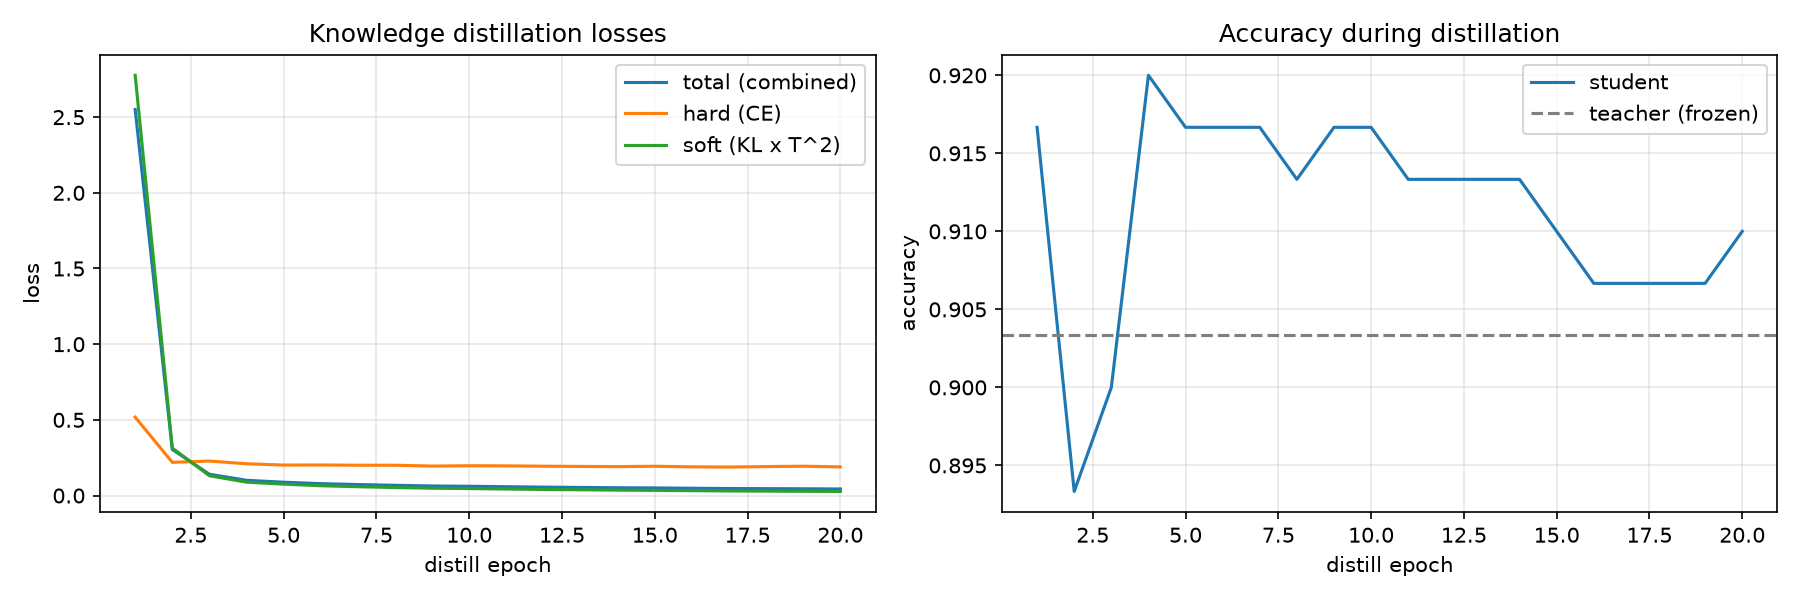
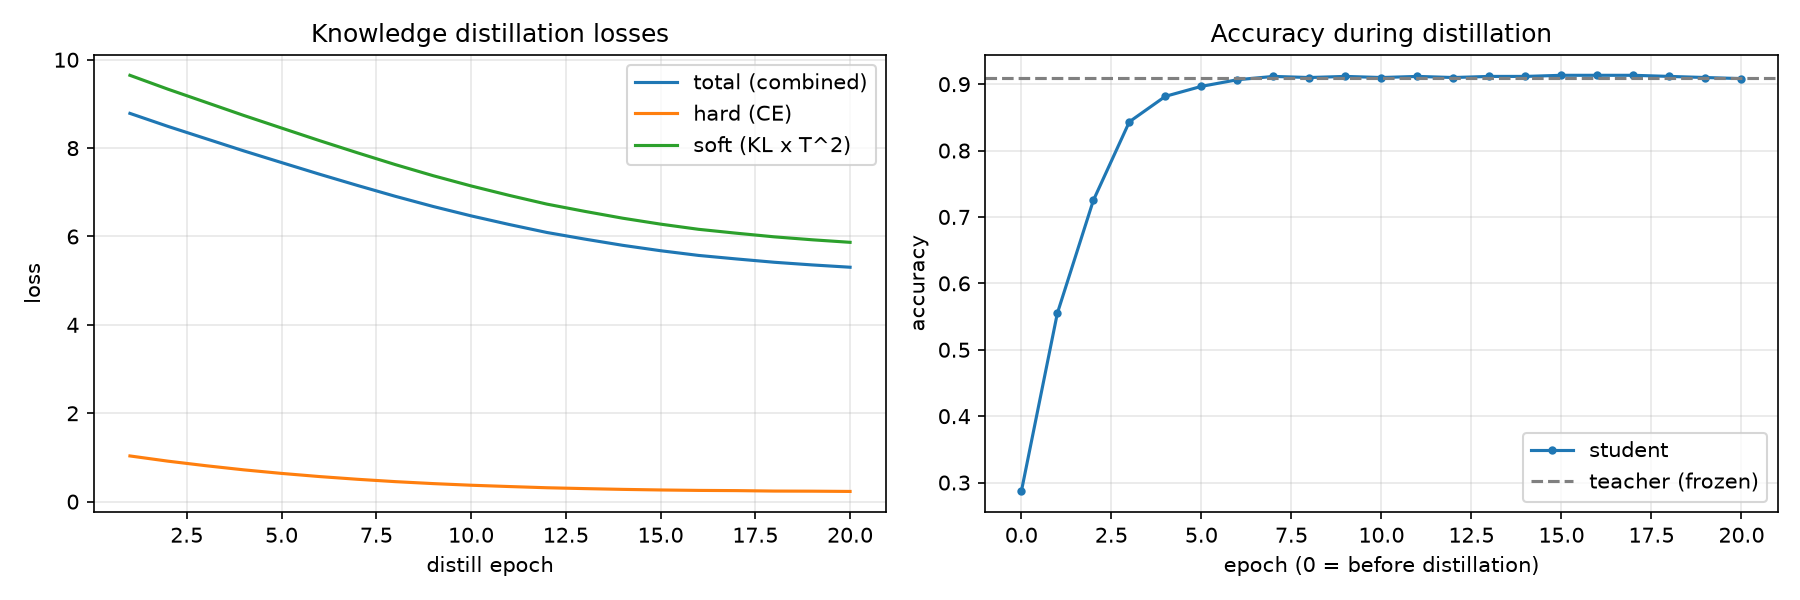
Align KD loss with Hinton et al. Sec. 2 equations
Soft loss is now cross-entropy with soft targets (Eq. 2) instead of
KLDivLoss, keeping T^2 scaling (Eqs. 3-4); Eq. (1)-(4) mapping is
annotated in train_knowledge_distillation. README documents the
method with the arXiv reference, and training curves are regenerated.

diff --git a/train_kd.py b/train_kd.py
@@ -9,17 +9,19 @@ Run:
     uv sync
     uv run python train_kd.py
 """
+
 import torch
 import torch.nn as nn
 import torch.nn.functional as F
 from torch.utils.data import DataLoader, TensorDataset, random_split
 
 import matplotlib
+
 matplotlib.use("Agg")
 import matplotlib.pyplot as plt
 
 SEED = 42
-N_SAMPLES = 1500
+N_SAMPLES = 3000
 NUM_CLASSES = 3
 BATCH_SIZE = 64
 TEACHER_EPOCHS = 30
@@ -27,19 +29,16 @@ DISTILL_EPOCHS = 20
 T = 3.0
 ALPHA = 0.1
 LR = 1e-2
+DISTILL_LR = 3e-4
 CHART_PATH = "kd_training_curve.png"
+DATA_CHART_PATH = "synthetic_data.png"
 
 DEVICE = torch.device("cuda")
 
 
-def require_cuda():
-    if not torch.cuda.is_available():
-        raise RuntimeError(
-            "A CUDA build of torch and an NVIDIA GPU are required."
-        )
-
-
-def train_knowledge_distillation(teacher, student, train_loader, optimizer, epoch, device, T=3.0, alpha=0.1):
+def train_knowledge_distillation(
+    teacher, student, train_loader, optimizer, epoch, device, T=3.0, alpha=0.1
+):
     """
     Args:
         teacher: Pre-trained teacher model (in eval mode)
@@ -54,14 +53,13 @@ def train_knowledge_distillation(teacher, student, train_loader, optimizer, epoc
     teacher.eval()
     student.train()
 
-    ce_loss_fn = nn.CrossEntropyLoss()
-    # KL Divergence is used for the soft target loss
-    kl_loss_fn = nn.KLDivLoss(reduction="batchmean")
-
     sum_total, sum_hard, sum_soft, n_batches = 0.0, 0.0, 0.0, 0
 
-    for batch_idx, (data, target) in enumerate(train_loader):
-        data, target = data.to(device, non_blocking=True), target.to(device, non_blocking=True)
+    for _, (data, target) in enumerate(train_loader):
+        data, target = (
+            data.to(device, non_blocking=True),
+            target.to(device, non_blocking=True),
+        )
         optimizer.zero_grad()
 
         # 1. Forward pass with both teacher and student
@@ -69,14 +67,25 @@ def train_knowledge_distillation(teacher, student, train_loader, optimizer, epoc
             teacher_logits = teacher(data)
         student_logits = student(data)
 
-        # 2. Compute the hard target loss (standard cross-entropy)
-        hard_loss = ce_loss_fn(student_logits, target)
+        # 2. Second objective: cross-entropy with the correct labels at T=1.
+        hard_loss = nn.CrossEntropyLoss()(student_logits, target)
 
-        # 3. Compute the soft target loss (scaled by T^2 as per Hinton et al.)
-        # log_softmax is applied to student, softmax to teacher
-        soft_targets = F.softmax(teacher_logits / T, dim=-1)
-        soft_prob = F.log_softmax(student_logits / T, dim=-1)
-        soft_loss = kl_loss_fn(soft_prob, soft_targets) * (T ** 2)
+        # 3. First objective: cross-entropy with the soft targets at T
+        # (Hinton et al., Sec. 2).
+        # Eq. (1): q_i = exp(z_i / T) / sum_j exp(z_j / T), applied with the
+        # same T to teacher logits v (-> p) and student logits z (-> q).
+        p = F.softmax(teacher_logits / T, dim=-1)
+        log_q = F.log_softmax(student_logits / T, dim=-1)
+
+        # Eq. (2): C = -sum_i p_i log q_i, with gradient
+        # dC/dz_i = (q_i - p_i) / T.
+        soft_ce = -(p * log_q).sum(dim=-1).mean()
+
+        # Eq. (3)-(4): at high T with zero-meaned logits,
+        # dC/dz_i ~= (z_i - v_i) / (N * T^2), i.e. soft-target gradients
+        # scale as 1/T^2, so the paper multiplies the soft objective by T^2
+        # to keep the hard/soft balance invariant to T.
+        soft_loss = soft_ce * (T**2)
 
         # 4. Combined loss
         loss = (alpha * hard_loss) + ((1.0 - alpha) * soft_loss)
@@ -102,10 +111,12 @@ def make_synthetic_data(n=N_SAMPLES, num_classes=NUM_CLASSES, seed=SEED):
     g = torch.Generator().manual_seed(seed)
     centers = torch.tensor([[-2.0, 0.0], [2.0, 0.0], [0.0, 2.5]])
     per_class = n // num_classes
+    remainder = n % num_classes
     xs, ys = [], []
     for c in range(num_classes):
-        xs.append(centers[c] + torch.randn(per_class, 2, generator=g))
-        ys.append(torch.full((per_class,), c, dtype=torch.long))
+        count = per_class + (1 if c < remainder else 0)
+        xs.append(centers[c] + torch.randn(count, 2, generator=g))
+        ys.append(torch.full((count,), c, dtype=torch.long))
     X = torch.cat(xs).float()
     y = torch.cat(ys)
     perm = torch.randperm(len(X), generator=g)
@@ -118,8 +129,10 @@ class TeacherNet(nn.Module):
     def __init__(self, num_classes=NUM_CLASSES):
         super().__init__()
         self.net = nn.Sequential(
-            nn.Linear(2, 128), nn.ReLU(),
-            nn.Linear(128, 128), nn.ReLU(),
+            nn.Linear(2, 128),
+            nn.ReLU(),
+            nn.Linear(128, 128),
+            nn.ReLU(),
             nn.Linear(128, num_classes),
         )
 
@@ -133,7 +146,8 @@ class StudentNet(nn.Module):
     def __init__(self, num_classes=NUM_CLASSES):
         super().__init__()
         self.net = nn.Sequential(
-            nn.Linear(2, 32), nn.ReLU(),
+            nn.Linear(2, 32),
+            nn.ReLU(),
             nn.Linear(32, num_classes),
         )
 
@@ -146,7 +160,10 @@ def accuracy(model, loader, device):
     model.eval()
     correct, total = 0, 0
     for data, target in loader:
-        data, target = data.to(device, non_blocking=True), target.to(device, non_blocking=True)
+        data, target = (
+            data.to(device, non_blocking=True),
+            target.to(device, non_blocking=True),
+        )
         correct += (model(data).argmax(dim=1) == target).sum().item()
         total += target.numel()
     return correct / total
@@ -158,28 +175,63 @@ def pretrain_teacher(teacher, loader, device, epochs=TEACHER_EPOCHS, lr=LR):
     ce = nn.CrossEntropyLoss()
     for _ in range(epochs):
         for data, target in loader:
-            data, target = data.to(device, non_blocking=True), target.to(device, non_blocking=True)
+            data, target = (
+                data.to(device, non_blocking=True),
+                target.to(device, non_blocking=True),
+            )
             opt.zero_grad()
             ce(teacher(data), target).backward()
             opt.step()
 
 
+def plot_synthetic_data(X, y, path=DATA_CHART_PATH):
+    """Scatter plot of the 2D synthetic blobs, colored by class label."""
+    X_cpu, y_cpu = X.detach().cpu(), y.detach().cpu()
+    fig, ax = plt.subplots(figsize=(6, 5))
+    for c in range(int(y_cpu.max().item()) + 1):
+        pts = X_cpu[y_cpu == c]
+        ax.scatter(
+            pts[:, 0].numpy(),
+            pts[:, 1].numpy(),
+            s=12,
+            alpha=0.7,
+            label=f"class {c} (n={len(pts)})",
+        )
+    ax.set_xlabel("x0")
+    ax.set_ylabel("x1")
+    ax.set_title(
+        f"Synthetic data: X {tuple(X.shape)} {X.dtype}, y {tuple(y.shape)} {y.dtype}"
+    )
+    ax.legend()
+    ax.grid(alpha=0.3)
+    ax.set_aspect("equal", adjustable="datalim")
+    fig.tight_layout()
+    fig.savefig(path, dpi=150)
+    plt.close(fig)
+
+
 def plot_history(history, path=CHART_PATH):
-    epochs = list(range(1, len(history["total"]) + 1))
+    loss_epochs = list(range(1, len(history["total"]) + 1))
+    # student_acc[0] is epoch 0 = before distillation.
+    acc_epochs = list(range(len(history["student_acc"])))
     fig, (ax_loss, ax_acc) = plt.subplots(1, 2, figsize=(12, 4))
 
-    ax_loss.plot(epochs, history["total"], label="total (combined)")
-    ax_loss.plot(epochs, history["hard"], label="hard (CE)")
-    ax_loss.plot(epochs, history["soft"], label="soft (KL x T^2)")
+    ax_loss.plot(loss_epochs, history["total"], label="total (combined)")
+    ax_loss.plot(loss_epochs, history["hard"], label="hard (CE)")
+    ax_loss.plot(loss_epochs, history["soft"], label="soft (KL x T^2)")
     ax_loss.set_xlabel("distill epoch")
     ax_loss.set_ylabel("loss")
     ax_loss.set_title("Knowledge distillation losses")
     ax_loss.legend()
     ax_loss.grid(alpha=0.3)
 
-    ax_acc.plot(epochs, history["student_acc"], label="student")
-    ax_acc.axhline(history["teacher_acc"], color="gray", linestyle="--", label="teacher (frozen)")
-    ax_acc.set_xlabel("distill epoch")
+    ax_acc.plot(
+        acc_epochs, history["student_acc"], marker="o", markersize=3, label="student"
+    )
+    ax_acc.axhline(
+        history["teacher_acc"], color="gray", linestyle="--", label="teacher (frozen)"
+    )
+    ax_acc.set_xlabel("epoch (0 = before distillation)")
     ax_acc.set_ylabel("accuracy")
     ax_acc.set_title("Accuracy during distillation")
     ax_acc.legend()
@@ -191,19 +243,26 @@ def plot_history(history, path=CHART_PATH):
 
 
 def main():
-    require_cuda()
+    if not torch.cuda.is_available():
+        raise RuntimeError("A CUDA build of torch and an NVIDIA GPU are required.")
+
     torch.manual_seed(SEED)
     torch.cuda.manual_seed_all(SEED)
     device = DEVICE
     print(f"device: {device} ({torch.cuda.get_device_name(device)})")
 
     X, y = make_synthetic_data()
+    plot_synthetic_data(X, y)
+    print(f"data chart saved to {DATA_CHART_PATH}")
+    n_train = int(0.8 * len(X))
     train_ds, test_ds = random_split(
-        TensorDataset(X, y), [1200, 300],
+        TensorDataset(X, y),
+        [n_train, len(X) - n_train],
         generator=torch.Generator().manual_seed(SEED),
     )
-    train_loader = DataLoader(train_ds, batch_size=BATCH_SIZE, shuffle=True,
-                              pin_memory=True)
+    train_loader = DataLoader(
+        train_ds, batch_size=BATCH_SIZE, shuffle=True, pin_memory=True
+    )
     test_loader = DataLoader(test_ds, batch_size=BATCH_SIZE, pin_memory=True)
 
     teacher = TeacherNet().to(device)
@@ -212,24 +271,38 @@ def main():
     print(f"teacher test acc (frozen): {teacher_acc:.4f}")
 
     student = StudentNet().to(device)
-    print(f"student test acc (before) : {accuracy(student, test_loader, device):.4f}")
-    optimizer = torch.optim.Adam(student.parameters(), lr=LR)
+    before_acc = accuracy(student, test_loader, device)
+    print(f"student test acc (before) : {before_acc:.4f}")
+    optimizer = torch.optim.Adam(student.parameters(), lr=DISTILL_LR)
 
-    history = {"total": [], "hard": [], "soft": [], "student_acc": [],
-               "teacher_acc": teacher_acc}
+    history = {
+        "total": [],
+        "hard": [],
+        "soft": [],
+        "student_acc": [before_acc],
+        "teacher_acc": teacher_acc,
+    }
     for epoch in range(1, DISTILL_EPOCHS + 1):
         stats = train_knowledge_distillation(
-            teacher, student, train_loader, optimizer, epoch, device,
-            T=T, alpha=ALPHA,
+            teacher,
+            student,
+            train_loader,
+            optimizer,
+            epoch,
+            device,
+            T=T,
+            alpha=ALPHA,
         )
         acc = accuracy(student, test_loader, device)
         history["total"].append(stats["total"])
         history["hard"].append(stats["hard"])
         history["soft"].append(stats["soft"])
         history["student_acc"].append(acc)
-        print(f"epoch {epoch:2d} | total {stats['total']:.4f} "
-              f"| hard {stats['hard']:.4f} | soft {stats['soft']:.4f} "
-              f"| student acc {acc:.4f}")
+        print(
+            f"epoch {epoch:2d} | total {stats['total']:.4f} "
+            f"| hard {stats['hard']:.4f} | soft {stats['soft']:.4f} "
+            f"| student acc {acc:.4f}"
+        )
 
     plot_history(history)
     print(f"chart saved to {CHART_PATH}")

diff --git a/README.md b/README.md
@@ -1,6 +1,14 @@
-# Knowledge Distillation Demo
+# Knowledge Distillation
 
 End-to-end knowledge distillation demo with a mock teacher (large MLP) and student (small MLP) on a synthetic 2D 3-class dataset.
+
+## Method (Hinton et al., 2015)
+
+`train_knowledge_distillation()` in [train_kd.py](/home/sangpark/workspace/github.com/likejazz/knowledge-distillation-expr/train_kd.py:39) follows Section 2 of *Distilling the Knowledge in a Neural Network*:
+
+- Hard loss: standard cross-entropy of student logits (T=1) against true labels.
+- Soft loss: `T^2 * C` where `C = -sum(p * log q)` is the cross-entropy with soft targets `p = softmax(teacher / T)`, `log q = log_softmax(student / T)`. Teacher is frozen (`eval` + `no_grad`) and both distributions use the same temperature `T = 3.0`. The `T^2` factor compensates for the `1/T^2` shrinking of soft-target gradients (Eqs. 3–4).
+- Combined loss: `alpha * hard + (1 - alpha) * soft` with `alpha = 0.1`.
 
 ## Run
 
@@ -9,6 +17,19 @@ uv sync
 uv run python train_kd.py
 ```
 
+## Data
+
+`make_synthetic_data()` generates 3 Gaussian blobs in 2D, one per class:
+
+- `X`: `(3000, 2)`, `torch.float32` — 2D coordinates, centers at `[-2, 0]`, `[2, 0]`, `[0, 2.5]` with std 1.
+- `y`: `(3000,)`, `torch.int64` — class labels 0/1/2, 1000 samples each.
+
+<img src="synthetic_data.png" width="600" alt="Synthetic data distribution">
+
 ## Result
 
 <img src="kd_training_curve.png" width="800" alt="KD training curve">
+
+## Reference
+
+- Geoffrey Hinton, Oriol Vinyals, Jeff Dean. *Distilling the Knowledge in a Neural Network.* arXiv:1503.02531, 2015. [arXiv](https://arxiv.org/abs/1503.02531)
